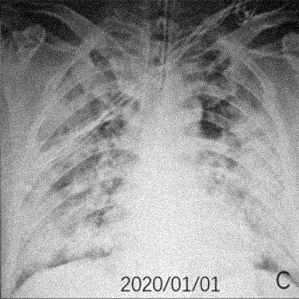
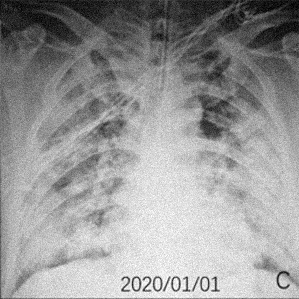
updated parameters and added testing script

diff --git a/scripts/tests.py b/scripts/tests.py
@@ -1,0 +1,80 @@
+import os
+import numpy as np
+import pandas as pd
+from PIL import Image
+import time
+import pywt
+import matplotlib.pyplot as plt
+from skimage.metrics import peak_signal_noise_ratio as psnr
+from skimage.metrics import structural_similarity as ssim
+
+from block_matching import block_matching
+from denoising import denoising
+from puttogether import aggregate_patches
+from noising import add_gaussian_noise
+
+IMAGE_DIR = 'assets/test_set/'
+BLOCK_SIZE = 4
+WINDOW_SIZE = 21
+DISTANCE_THRESHOLD = 8
+SAFETY_COEFFICIENT = 4
+NOISE_SIGMA = 25
+
+def estimate_noise_sigma(image_matrix):
+    """
+    Estimates the standard deviation of Gaussian noise in an image using Wavelet decomposition.
+    Args:
+        image_matrix: The input image as a 2D numpy array
+    Returns:
+        estimated_sigma: The estimated noise standard deviation (float)
+    """
+    coeffs = pywt.dwt2(image_matrix, 'db2')
+    LL, (LH, HL, HH) = coeffs
+    
+    mad = np.median(np.abs(HH - np.median(HH)))
+    
+    return mad / 0.6745
+
+
+def process_single_image(file_path):
+    image = Image.open(file_path).convert('L')
+    gt = np.array(image, dtype=np.float64)
+    noisy = np.clip(add_gaussian_noise(gt.copy(), NOISE_SIGMA), 0, 255)
+    estimated_sigma = estimate_noise_sigma(noisy)
+
+    start = time.time()
+    res = block_matching(noisy, threshold=DISTANCE_THRESHOLD, block_size=BLOCK_SIZE, window_size=WINDOW_SIZE)
+    res_clean = denoising(res, estimated_sigma, SAFETY_COEFFICIENT)
+    clean = aggregate_patches(res_clean, gt.shape, BLOCK_SIZE)
+    clean = np.clip(clean, 0, 255).astype(np.uint8)
+    elapsed = time.time() - start
+
+    psnr_val = psnr(gt.astype(np.uint8), clean, data_range=255)
+    ssim_val = ssim(gt.astype(np.uint8), clean, data_range=255)
+    
+    return psnr_val, ssim_val, elapsed
+
+def main():
+    results = []
+    image_files = [f for f in os.listdir(IMAGE_DIR) if f.endswith(('.png', '.jpg', '.jpeg'))]
+
+    print(f"Starting benchmark on {len(image_files)} images...")
+
+    for filename in image_files[:2]:
+        path = os.path.join(IMAGE_DIR, filename)
+        try:
+            p, s, t = process_single_image(path)
+            results.append({"File": filename, "PSNR": p, "SSIM": s, "Time": t})
+            print(f"Finished {filename}: PSNR={p:.2f}, SSIM={s:.4f}")
+        except Exception as e:
+            print(f"Error processing {filename}: {e}")
+
+    df = pd.DataFrame(results)
+    print("\n--- Final Benchmark Summary ---")
+    print(df.describe().loc[['mean', 'std']])
+
+    df.to_csv("denoising_benchmark_results.csv", index=False)
+    print("\nResults saved to denoising_benchmark_results.csv")
+
+if __name__ == "__main__":
+    main()

diff --git a/scripts/main.py b/scripts/main.py
@@ -6,15 +6,14 @@ from puttogether import aggregate_patches
 from noising import add_gaussian_noise, add_poisson_noise
 import time
 import pywt
-#import cv2
 import matplotlib.pyplot as plt
 
 
 PATH_TO_FILE = 'assets/COVID-1017.png'
 BLOCK_SIZE = 4
-WINDOW_SIZE = 21
-DISTANCE_THRESHOLD = 8
-SAFETY_COEFFICIENT = 4
+WINDOW_SIZE = 15
+DISTANCE_THRESHOLD = 9
+SAFETY_COEFFICIENT = 3
 
 
 def estimate_noise_sigma(image_matrix):
